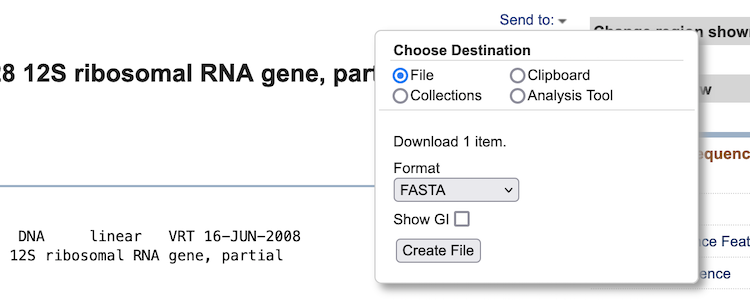
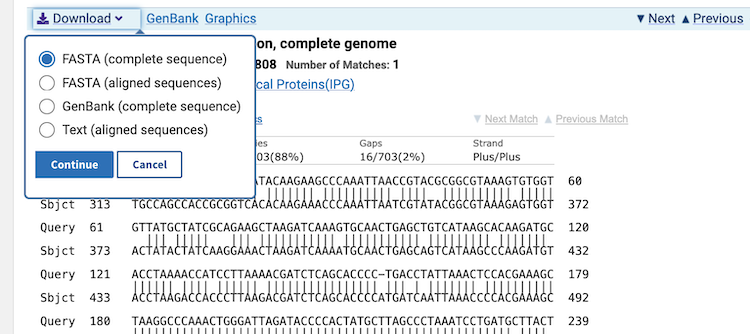
Updated sequence info

Changed region(s): [[0.0, 0.0, 1.0, 1.0], [0.0307, 0.45, 0.2453, 0.54], [0.7667, 0.72, 0.7973, 0.78]]

diff --git a/dataset_compilation/README.md b/dataset_compilation/README.md
@@ -70,7 +70,13 @@ The table above is missing some accession numbers for the 12s sequences. That is
 
 Go to the NCBI (National Center for Biotechnology Information) [BLAST website](https://blast.ncbi.nlm.nih.gov/Blast.cgi) and select **“Nucleotide BLAST”** to use a nucleotide sequence to search for other nucleotide sequences.
 
-In the search field **“Enter Query Sequence”** enter the accession number (or the sequence) of one of the other 12s sequences of Charadriidae (don’t use the accession numbers stating with “NC” or “MW” as these correspond to whole mitochondrial sequences). In the "**Choose Search Set**” field, restrict the “Organism" to “**Charadriidae**” and keep the algorithm to search for "**Highly similar sequences (megablast)**". Have a look at the algorithm parameters by clicking on the blue "**+ Algorithm parameters**" option at the very bottom. 
+Then, in the search field **“Enter Query Sequence”** enter the accession number (or the sequence) of one of the other 12s sequences of Charadriidae (e.g., EF380263, don’t use the accession numbers stating with “NC” or “MW” as these correspond to whole mitochondrial sequences!). 
+
+In the "**Choose Search Set**” field, restrict the “Organism" to “**Charadriidae (taxid:8907)**” and keep the algorithm to search for "**Highly similar sequences (megablast)**". 
+
+<kbd>![](./img/blast_004.png)</kbd>
+
+Also have a look at the algorithm parameters by clicking on the blue "**+ Algorithm parameters**" option at the very bottom. 
 
 <kbd>![](./img/blast_003.png)</kbd>
 
@@ -87,7 +93,7 @@ In the search field **“Enter Query Sequence”** enter the accession number (o
 </details>
 
 
-![](../img/discussion_icon.png) If your search would be targeting very diverged species, would you shorten or increase the Word size? How could you adjust the Scoring Parameters to assure finding the diverged sequences? Discuss with your neighbors!
+![](../img/discussion_icon.png) If your search would target very diverged species, would you shorten or increase the Word size? How could you adjust the Scoring Parameters to assure finding the diverged sequences? Discuss with your neighbors!
 
 <details>
   <summary>Discussion points (click here)</summary> 
@@ -102,20 +108,22 @@ In the search field **“Enter Query Sequence”** enter the accession number (o
 --------
 </details>
 
-For now, don't change the algorithm parameters, but just start the search by clicking on “**BLAST**”. Once the search is finished, scroll through the results, there should be around 38 hits.  
+After you are satisfied with your settings – and for now, don't change the algorithm parameters – **start the search** by clicking on “**BLAST**”. 
 
-Go to the “**Taxonomy**” tab.  
+Once the search is finished, you will see the results page with some information about your search. If you scroll down a bit, there is a table with your results. There should be around 40 hits.  
+
+Using the tabs just above the table, go to “**Taxonomy**”.  
 
 <kbd>![](./img/blast_001.png)</kbd>
 
-![](../img/question_icon.png) Of the six species that had missing 12s sequences, is there one or more included in this list? If so, how many hits were found?
+![](../img/question_icon.png) Of the six species that had missing 12s sequences, is there one or more included in the taxonomy list (you can use your browsers text search tool for the search)? If so, how many hits were found?
 
 <details>
   <summary>Answer (click here)</summary> 
 
 --------
 
-In November 2022, there was only one species with additional 12s sequence data: *Charadrius vociferus* (Killdeer), for which four hits were found.
+In November 2023, there was only one species with additional 12s sequence data: *Charadrius vociferus* (Killdeer), for which four hits were found.
 
 --------
 </details>
@@ -135,27 +143,31 @@ In November 2022, there was only one species with additional 12s sequence data: 
 --------
 </details>
 
-Download the selected 12s sequence(s) for the species you found: In the “**Descriptions**” tab, click on the accession number for the available sequence(s), click on “**Send to**” in the upper right corner, select “**File**”, for “Format" choose “**FASTA**”, click “**Create file**”. 
+Download the selected 12s sequence for the species you found. There are multiple ways how to do this, e.g., in the **"Alignments"** tab next to the "Taxonomy" tab, go to your selected sequence, click on the **"Download"** icon above the sequence, select **"FASTA (complete sequence)"** and click **"Download"**.
 
 <kbd>![](./img/blast_002.png)</kbd> 
 
-Rename the file with the species name, gene ID, and accession number (e.g., `c_vociferus_12s_DQ485792.fasta` and have a look at the content using a a text editor.  
+The downloaded file will have a non-descriptive name, therefore rename the file with the species name, gene ID, and accession number (e.g., `c_vociferus_12s_DQ485792.fasta` and have a look at the content by opening it in a text editor.  
 
-In FASTA format, the first line always starts with a `>` (greater-than) symbol proceeded by a unique description of the sequence (here the accession number and a non-standardized name of the sequence given by the person who uploaded the sequence). Following this initial line is the actual sequence itself in one line ("sequential") or on multiple lines ("interleaved").
+In FASTA format, the first line always starts with a `>` (greater-than) symbol, proceeded by a unique description of the sequence (here the accession number and a non-standardized name of the sequence given by the person who uploaded the sequence). Following this initial line is the actual sequence itself in one line ("sequential") or on multiple lines ("interleaved").
 
 
 <a name="batch"></a>
 ## 1.3 Batch-download remaining sequences
 
-We could individually download the remaining 12s sequences, but NCBI also has a website to download multiple information, e.g., the sequence information for many accession numbers, at once. 
+Now, we could individually download the 12s sequences for the other species in our list, but this would be very tedious. Instead, NCBI also has a website to **"batch"**-download multiple information, e.g., the sequence information for many accession numbers, at once. 
 
-Go to the [NCBI Batch Entrez website](https://www.ncbi.nlm.nih.gov/sites/batchentrez). Select the “**Nucleotide**” database and upload the file [`12s_ncbi_accn.txt`](data/12s_ncbi_accn.txt) (to download the file, click on the link, then right click the "**Raw**" button at the top of the file, select "**Save Link As…**", choose the location on your computer where you want to save the file, and select "**Save**"). Click “**Retrieve**” and “**Retrieve records for 17 UID(s)**”. UID is the abbreviation for “unique identifier”. On the displayed website, quickly check that these are the correct sequences. Then proceed as before to download them in FASTA file format, but also sorted by "**Organism name**" (Send to > Complete record > File > FASTA > Sort by > Organism name > Create file). Rename the file to `12s_ncbi.fasta` and move it to your working directory.
+To provide the accession numbers, first download the text file containing the accession numbers for all species listed in the table above. This table also already includes the additional 12s sequence: [`12s_ncbi_accn.txt`](data/12s_ncbi_accn.txt) (To download the file to your computer, click on the provided link (you may use  right- or control-click to open the link in a new tab), then click on **"Download raw file"** at the top of the file. If you do not see this option, right- or control-click the "**Raw**" button, select "**Save Link As…**", choose the location on your computer where you want to save the file, and select "**Save**".)
+
+Then, go to the [NCBI Batch Entrez website](https://www.ncbi.nlm.nih.gov/sites/batchentrez). Select the “**Nucleotide**” database and click **"Browse"** to upload the `12s_ncbi_accn.txt` file. Click “**Retrieve**” and “**Retrieve records for 17 UID(s)**”. UID is the abbreviation for “unique identifier”. On the displayed website, quickly check that these are the correct sequences. Then click on **"Send to"** in the upper right corner to download the sequences in FASTA file format (choose **"Complete record"** and **"File"**, select **"FASTA"** as format, sort by "**Organism name**". Rename the file to `12s_ncbi.fasta` and move it to your working directory.
+
+<kbd>![](./img/batch_001.png)</kbd> 
 
 
 <a name="rename"></a>
 ## 1.4 Rename sequences
 
-Open the file `12s_ncbi.fasta` in a text editor. The format is the same as for the single FASTA file you manually downladed before, just that it contains multiple FASTA formated sequences after each other. Many of the sequence descriptions have long names with special characters and white space that are usually not handled well by most analyses software. Therefore, we rename the sequences descriptions to a name using only the accession number without the version information (the part after the period) followed by the species name, separated by underscores instead of whitespace. For example: `>NC_003713.2 Haematopus ater mitochondrion, complete genome` will then be `>NC_003713_Haematopus_ater`.  
+Open the file `12s_ncbi.fasta` in a text editor. The format is the same as for the single FASTA file you manually downladed before, just that it contains multiple FASTA formated sequences. Many of the sequence descriptions have long names with special characters and white space that are usually not handled well by most analyses software. Therefore, we rename the sequences descriptions to a name using only the accession number without the version information (the part after the period) followed by the species name, separated by underscores instead of whitespace. For example: `>NC_003713.2 Haematopus ater mitochondrion, complete genome` will then be `>NC_003713_Haematopus_ater`.  
  
 We will refresh your bioinformatics knowledge and do this on the command line using Bash:  
 
@@ -166,7 +178,7 @@ We will refresh your bioinformatics knowledge and do this on the command line us
 
 --------
   
-`cd path/to/your/file` (change directory)
+`cd path/to/your/file` (cd = **c**hange **d**irectory)
 
 --------
 </details>
@@ -192,7 +204,7 @@ There are many options, e.g., `less`, `more`, `head`, `tail`, `nano`, `emacs`, e
 
 `cat 12s_ncbi.fasta | grep ">" | wc -l`
 
-Do you know the commands used above? If not, you may consult the manual (e.g., `man grep` (to exit the man pages, press `q`) or consult the help text (`grep -h`). Our file should have 17 header lines.
+Do you know the commands and programs used above? If not, you may consult the manual (e.g., the **man**ual for the program "grep" with: `man grep` (to exit the man pages, press `q`) or consult the help text of the program "grep" (`grep -h`). Our file should have 17 header lines.
 
 --------
 </details>
@@ -217,7 +229,7 @@ Do you know the commands used above? If not, you may consult the manual (e.g., `
 
 --------
 
-With `cat` the file is read to standard out, with the pipe character `|` its content is forwarded to the program `cut`, where the `-d` flag specifies the field delimiter as being a `space` and the `-f` flag specifies the fields to be cut as the columns 1 to 3. With `tr` spaces are transformed to underscores, and with `sed` the period and any number thereafter is replaced with nothing. Finally, `grep` searches for the greater-than symbol and `head` prints the first 5 lines `-n 5`  on the screen.
+With `cat` the file is read to standard out, with the pipe character `|` its content is forwarded to the program `cut`, where the `-d` flag specifies the field **d**elimiter as being a `space` and the `-f` flag specifies the **f**ields to be cut as the columns 1 to 3. With `tr` spaces are **tr**ansformed to underscores, and with `sed` the period and any number thereafter is replaced with nothing. Finally, `grep` searches for the greater-than symbol and `head` prints the first 5 lines `-n 5`  on the screen.
 
 --------
 </details>
@@ -228,7 +240,7 @@ Do the reformatted names look like we want them? If yes, replace the last two co
 <a name="rename_co1"></a>
 ## 1.5 Download and rename the CO1 sequences
 
-There are more databases than NCBI or its European counterpart [ENA (European Nucleotide Archive)](https://www.ebi.ac.uk/ena/browser/) that store molecular information. One example is the [BOLD (The Barcode of Life Data System) database](https://www.boldsystems.org/), which is the database for “DNA barcoding”. 
+There are more databases than NCBI or its European counterpart [ENA (European Nucleotide Archive)](https://www.ebi.ac.uk/ena/browser/home) that store molecular information. One example is the [BOLD (The Barcode of Life Data System) database](https://www.boldsystems.org/), which is the database for “DNA barcoding”. 
 
 <details>
   <summary>Background: What is barcoding? (click here)</summary> 
@@ -249,31 +261,33 @@ Copy and paste the following UID’s into the search field and click “**Search
 
 The site should now display 22 records. Click on the blue “Sequences: FASTA” icon on the right to download the sequences. Rename the file to `co1_bold.fasta` and move it to your working directory. 
 
-![](../img/question_icon.png)Go to the Terminal and inspect the content of the downloaded file. Does this file contain aligned FASTA sequences?
+![](../img/question_icon.png)Inspect the content of the downloaded file. Does this file contain aligned FASTA sequences?
 
 <details>
   <summary>Answer (click here)</summary> 
 
 --------
 
-Yes, because the sequences have leading and trailing “gap” characters (here dashes) that adjust them to the same length. Indeed, more closely related species are already well aligned, but *Haematopus ater* is not.
+Yes, because the sequences have leading and trailing “gap” characters (here dashes) that adjust them to the same length. Indeed, more closely related species are already well aligned, but for example our outgroup, *Haematopus ater*, is not well aligned.
 
 --------
 </details>
 
-The names in the sequence headers are again not very machine-readable. Adjust the code from section [1.4 Rename sequences](#rename) to rename the headers. Note, there is no “version” number in the BOLD UIDs, instead the number after the dash corresponds to the year the sequence was added to the database. The year is part of the UID, so we need to keep it, but we could replace the dash with an underscore. For example, we could change `>BON196-07|Charadrius morinellus|COI-5P|GU571332` to `>BON196_07_Charadrius_morinellus`.
+The names in the sequence headers are again not very machine-readable. Adjust the bash command from section [1.4 Rename sequences](#rename) to rename the headers. Note, there is no “version” number in the BOLD UIDs, instead the number after the dash corresponds to the year the sequence was added to the database. The year is part of the UID, so we need to keep it, but we could replace the dash with an underscore. For example, we could change `>BON196-07|Charadrius morinellus|COI-5P|GU571332` to `>BON196_07_Charadrius_morinellus`.
 
 <details>
-  <summary>Answer (click here)</summary> 
+  <summary>"I don't know the right bash command..." (click here)</summary> 
 
 --------
 
-`cat co1_bold.fasta | cut -d '|' -f 1-2 | tr ' ' '_' | tr '|' '_' | tr '-' '_' > co1_bold_ed.fasta`
+`cat co1_bold.fasta | cut -d '|' -f 1-2 | tr ' ' '_' | tr '|' '_' | sed '/^>/s/-/_/g' > co1_bold_ed.fasta`
+
+The first commands are similar to section 1.4 above, but we `cut` at the `|`, instead of the space and only keep the first two fields. Then, `tr` is used to transform "space" and the remaining `|` to `_`, finally we use `sed` and address only lines beginning with a greater-than sign `'/^>` to substitute `-` with `_`.
 
 --------
 </details>
 
-NOTE: Because *Thinornis rubricollis* is also known by the synonym *Thinornis cucullatus*, the CO1 sequence is labeled with *T. cucullatus*. This will be problematic if we compare the phylogenetic trees or concatenate the data, so rename this sequence (manually or with `sed`) to *Thinornis rubricollis*.
+NOTE: Because *Thinornis rubricollis* is also known by the synonym *Thinornis cucullatus*, the CO1 sequence of this individual is labeled with *T. cucullatus*. This will be problematic if we compare the phylogenetic trees or concatenate the data, so rename this sequence (manually or with `sed`) to *Thinornis rubricollis*.
 
 
 <a name="rag1"></a>
